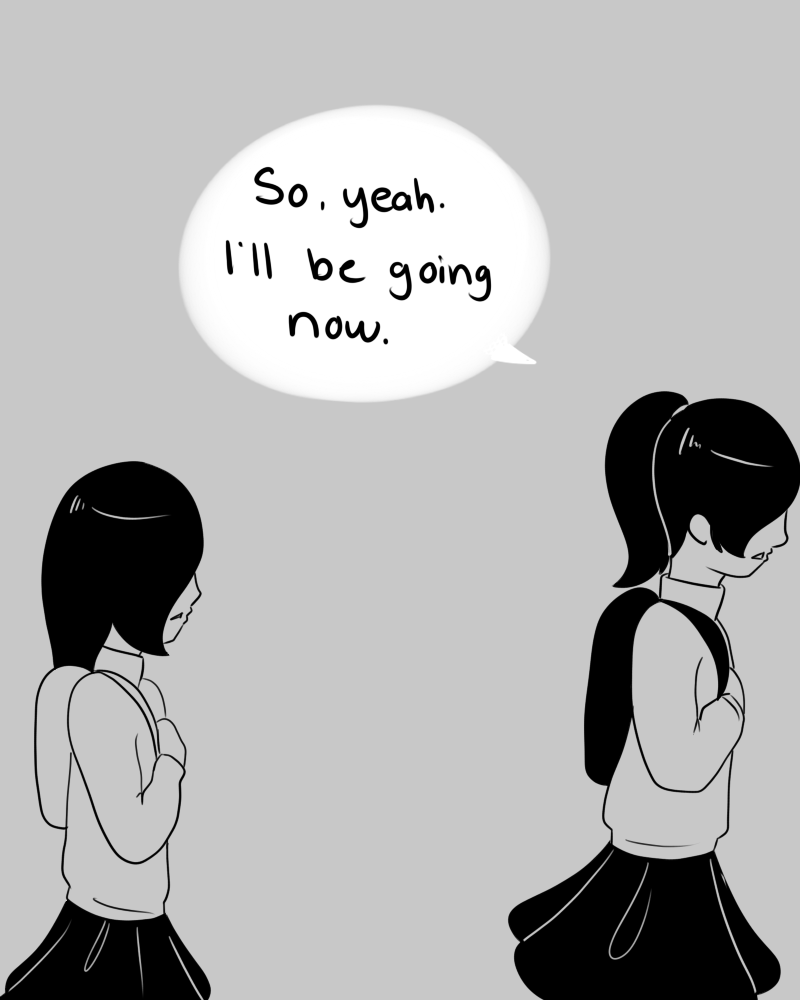
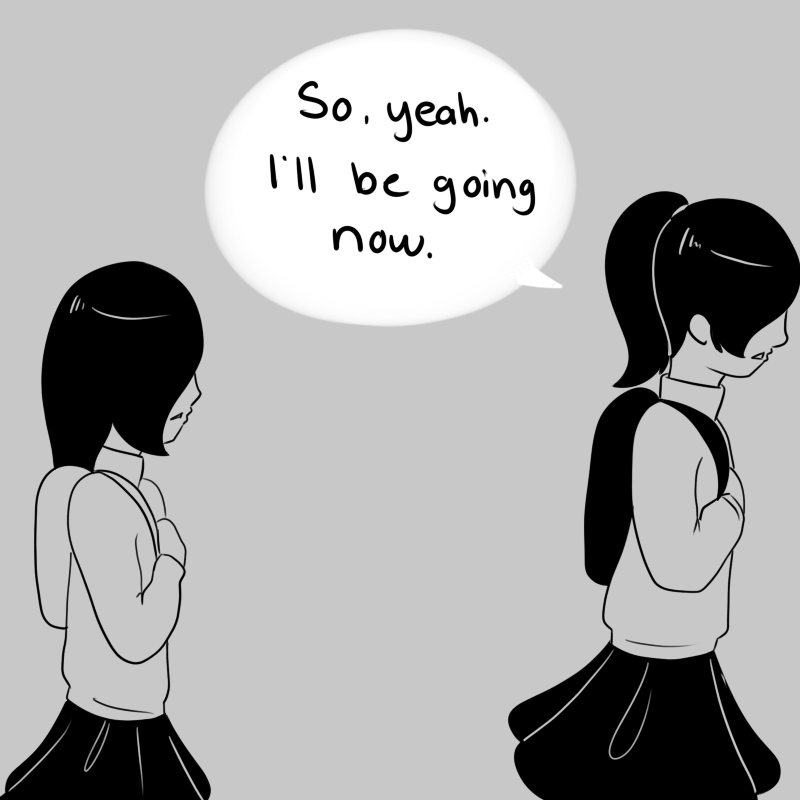
pic edit

Changed region(s): [[0.0, 0.0312, 0.7188, 1.0], [0.625, 0.2188, 1.0, 1.0]]

diff --git a/p5-net/test.js b/p5-net/test.js
@@ -37,11 +37,11 @@ function draw() {
   textFont(myFont);
   textSize(90);
   fill(0);
-  text('NOT', width / 2 - 50, height / 2);
+  text('NOT', width / 2 - 60, height / 2);
   fill(255, 0, 0);
   textSize(100);
-  text("I'm", width / 2 - 190, height / 2);
-  text("fine.", width / 2 + 105, height / 2);
+  text("I'm", width / 2 - 200, height / 2);
+  text("fine.", width / 2 + 90, height / 2);
 
   fill(255);
   rect(width / 2 - 110, height / 2 - 300, 300, 70, 10);
@@ -56,6 +56,7 @@ function draw() {
   } else {
     image(img, width / 2 - 100, height / 2 + 10, img.width / 3, img.height / 3);
   }
+
 }
 
 function mousePressed() {
@@ -67,32 +68,32 @@ function mousePressed() {
     rect(0, 0, 30, 30);
   }
   if (mouseX > 5 && mouseY > 5 && mouseX < 25 && mouseY < 25) {
-    image(story2, 220, 170, img.width / 3, img.height / 3);
+    image(story2, width/2-480, height/2-150, img.width / 3, img.height / 3);
     fill(0);
-    rect(210, 185, 20, 20);
+    rect(width/2-475, height/2-145, 20, 20);
     noFill();
-    rect(205, 180, 30, 30);
+    rect(width/2-480, height/2-150, 30, 30);
   }
-  if (mouseX > 210 && mouseY > 185 && mouseX < 230 && mouseY < 205) {
-    image(story3, 0, 400, img.width / 3, img.height / 3);
+  if (mouseX > width/2-475 && mouseY > height/2-145 && mouseX < width/2-455 && mouseY < height/2-125) {
+    image(story3, 0, height/2+50, img.width / 3, img.height / 3);
     fill(0);
-    rect(5, 405, 20, 20);
+    rect(5, height/2 + 60, 20, 20);
     noFill();
     stroke(0);
-    rect(0, 400, 30, 30);
+    rect(0, height/2 + 55, 30, 30);
     noStroke();
   }
-  if (mouseX > 5 && mouseY > 400 && mouseX < 25 && mouseY < 425) {
+  if (mouseX > 5 && mouseY > height/2 + 60 && mouseX < 25 && mouseY < height/2+80) {
     image(black, 0, 0, img.width / 3, img.height / 3);
-    image(black2, 220, 170, img.width / 3, img.height / 3);
-    image(black3, 0, 400, img.width / 3, img.height / 3);
+    image(black2, width/2-475, height/2-145, img.width / 3, img.height / 3);
+    image(black3, 0, height/2+60, img.width / 3, img.height / 3);
     setInterval(box, 5000);
   }
 
   function box() {
     image(blackBox, 0, 0, img.width / 3, img.height / 3);
-    image(blackBox, 220, 170, img.width / 3, img.height / 3);
-    image(blackBox, 0, 400, img.width / 3, img.height / 3);
+    image(blackBox, width/2-475, height/2-145, img.width / 3, img.height / 3);
+    image(blackBox, 0, height/2+60, img.width / 3, img.height / 3);
     fill(255, 0, 0);
     rect(350, 310, 20, 20);
     noFill();
@@ -102,44 +103,45 @@ function mousePressed() {
   }
 
   if (mouseX > 350 && mouseY > 310 && mouseX < 370 && mouseY < 330) {
-    image(story4, width / 2 + 450, -10, img.width / 3, img.height / 3);
+    image(story4, width / 2 + 450, height/2-380, img.width / 3, img.height / 3);
     stroke(0);
     fill(0);
-    rect(width / 2 + 460, 5, 20, 20);
+    rect(width / 2 + 460, height/2-320, 20, 20);
     noFill();
-    rect(width / 2 + 455, 0, 30, 30);
+    rect(width / 2 + 455, height/2-325, 30, 30);
   }
 
-  if (mouseX > width / 2 + 460 && mouseY > 5 && mouseX < width / 2 + 480 && mouseY < 25) {
-    image(story5, width / 2 + 290, 180, img.width / 3, img.height / 3);
+  if (mouseX > width / 2 + 460 && mouseY > height/2-320 && mouseX < width / 2 + 480 && mouseY < height/2-300) {
+    image(story5, width / 2 + 280, height/2-150, img.width / 3, img.height / 3);
     fill(0);
-    rect(width / 2 + 295, 185, 20, 20);
+    rect(width / 2 + 285, height/2-145, 20, 20);
     noFill();
     stroke(0);
-    rect(width / 2 + 290, 180, 30, 30);
+    rect(width / 2 + 280, height/2-150, 30, 30);
   }
 
-  if (mouseX > width / 2 + 295 && mouseY > 185 && mouseX < width / 2 + 315 && mouseY < 205) {
-    image(story6, width / 2 + 480, 400, img.width / 3.5, img.height / 3.5);
+  if (mouseX > width / 2 + 285 && mouseY > height/2-145 && mouseX < width / 2 + 305 && mouseY < height/2-125) {
+    image(story6, width / 2 + 430, height/2+100, img.width / 3, img.height / 4);
     fill(0);
-    rect(width / 2 + 490, 410, 20, 20);
+    rect(width / 2 + 435, height/2+105, 20, 20);
     noFill();
     stroke(0);
-    rect(width / 2 + 485, 405, 30, 30);
+    rect(width / 2 + 430, height/2+100, 30, 30);
     noStroke();
   }
 
-  if (mouseX > width / 2 + 490 && mouseY > 410 && mouseX < width / 2 + 510 && mouseY < 430) {
-    image(black4, width / 2 + 400, 0, img.width / 3, img.height / 3);
-    image(black5, width / 2 + 290, 180, img.width / 3, img.height / 3);
-    image(black6, width / 2 + 480, 400, img.width / 3.5, img.height / 3.5);
+  if (mouseX > width / 2 + 435 && mouseY > height/2+105 && mouseX < width / 2 + 455 && mouseY < height/2+125) {
+    image(black4, width / 2 + 420, height/2-350, img.width / 3, img.height / 3);
+    image(black5, width / 2 + 280, height/2-150, img.width / 3, img.height / 3);
+    image(black6,width / 2 + 430, height/2+100, img.width / 3, img.height / 3);
     setInterval(morebox, 5000);
+    setInterval(printWords, 400);
   }
 
   function morebox() {
-    image(blackBox, width / 2 + 400, 0, img.width / 3, img.height / 3);
-    image(blackBox, width / 2 + 290, 180, img.width / 3, img.height / 3);
-    image(blackBox, width / 2 + 480, 400, img.width / 3.5, img.height / 3.5);
+    image(blackBox, width / 2 + 450, height/2-380, img.width / 3, img.height / 3);
+    image(blackBox, width / 2 + 280, height/2-150, img.width / 3, img.height / 3);
+    image(blackBox, width / 2 + 430, height/2+100, img.width / 3, img.height / 3);
     fill(255, 0, 0);
     rect(width/2 + 370, 310, 20, 20);
     noFill();
@@ -148,8 +150,7 @@ function mousePressed() {
     noStroke();
   }
   if ( mouseX > width/2+370 && mouseY > 310 && mouseX <width/2 +390 && mouseY < 330){
-  fill(0);
-  rect(0,0,windowWidth,windowHeight);
+  setInterval(printWords, 100);
   }
 
 }
